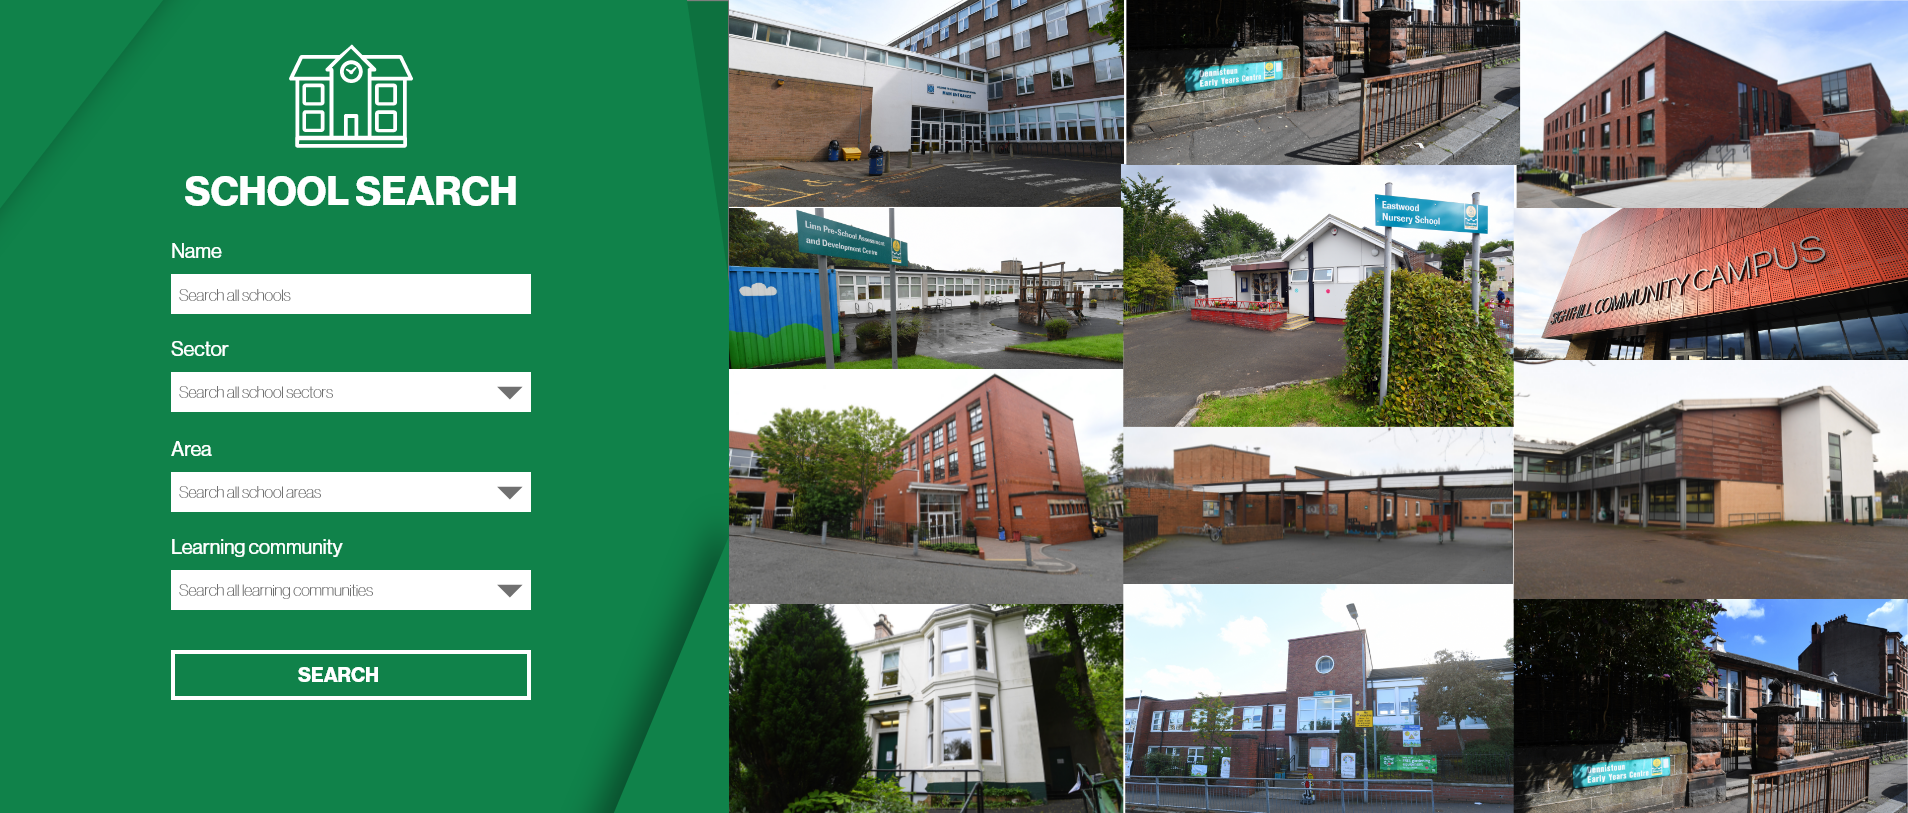
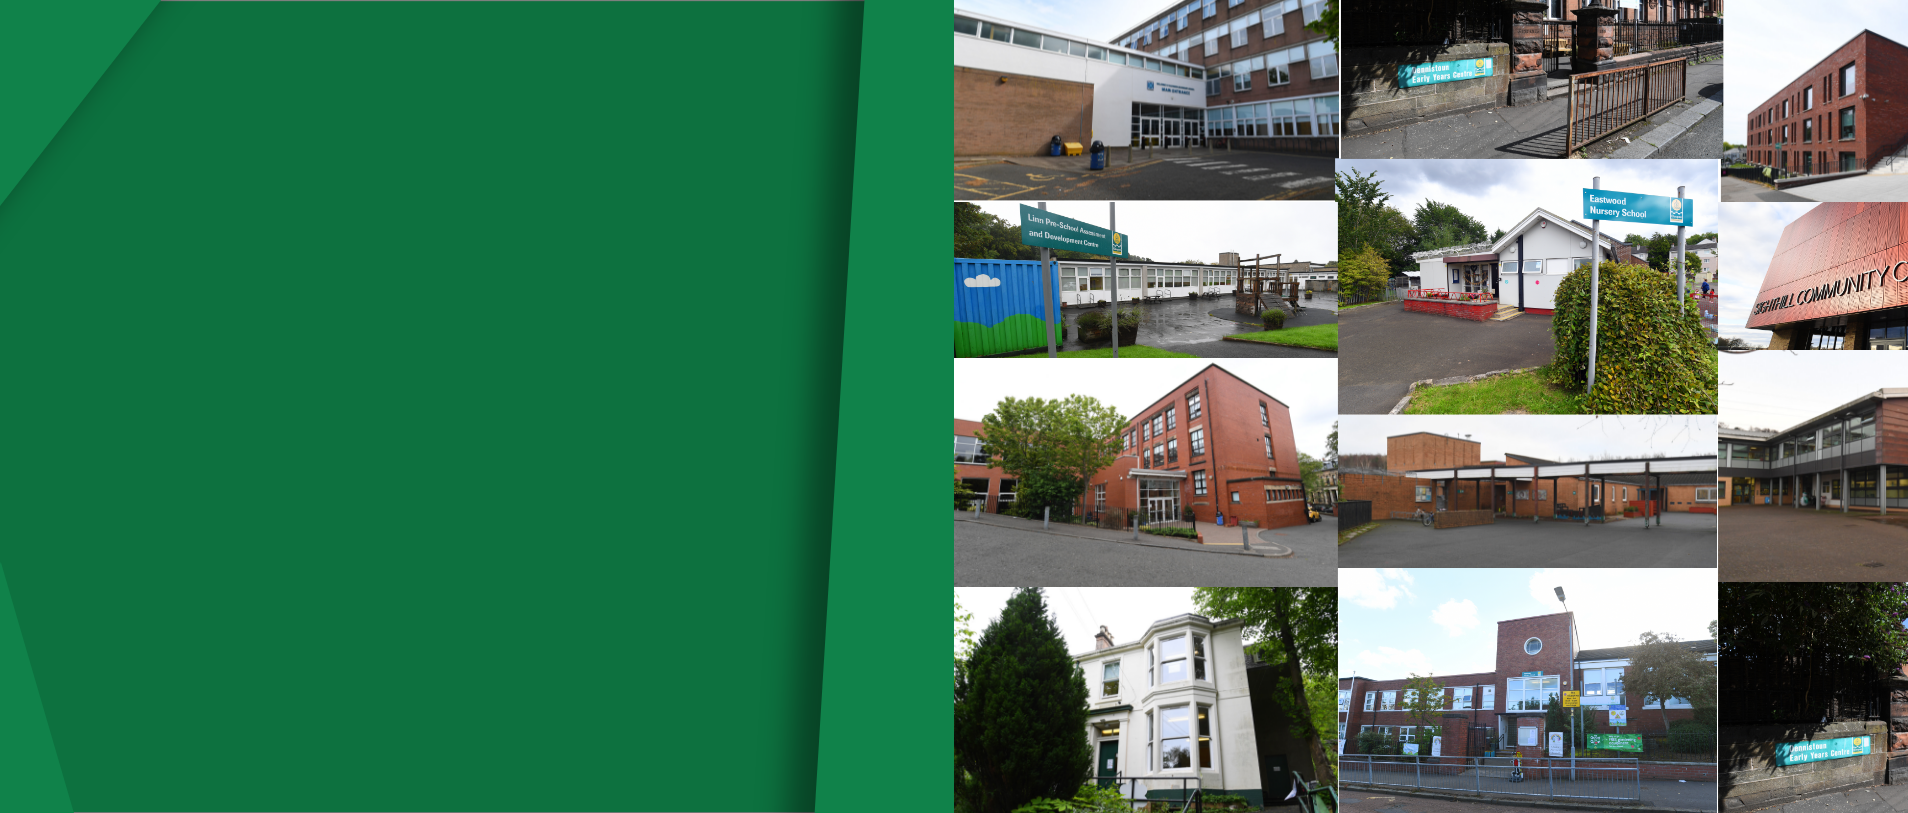
Working on School Search tile

diff --git a/index.html b/index.html
@@ -668,7 +668,7 @@
 
 
 			<!-- Square tile -->
-			<li class="fade-in-element tile green">
+			<li class="fade-in-element tile">
 				<!-- <div class="tile black"> -->
 					<a href="#">
 						<div class="tile-gradiant"></div>
@@ -774,51 +774,10 @@
 								<h1>School Search</h1>
 							</div>
 							<form action="post" id="schoolSearchForm">
-								<div class="p-1">
-									<label class="form-title">
-										By school area
-									</label>
-									<div class="form-field styled-select slate form-field">
-										<select class="js-example-basic-single select2-hidden-accessible" data-val="true" data-val-number="List of school areas" id="selectSchoolArea" name="selectSchoolArea" required="" style="width: 50%;" tabindex="-1" aria-hidden="true" data-select2-id="select2-data-selectSchoolArea">
-											<option value="" data-select2-id="select2-data-13-d990">All areas</option>
-											<option value="ce">North West</option>
-											<option value="drs">North East</option>
-											<option value="edu">South</option>
-										</select>
-									</div>
-								</div>
-								<div class="p-1">
-									<label class="form-title">
-										By school sector
-									</label>
-									<div class="form-field styled-select slate form-field">
-										<select class="js-example-basic-single select2-hidden-accessible" data-val="true" data-val-number="List of school sectors" id="selectSchoolSector" name="selectSchoolSector" required="" tabindex="-1" aria-hidden="true" data-select2-id="select2-data-selectSchoolSector">
-											<option value="" data-select2-id="select2-data-17-m2rn">All sectors</option>
-											<option value="Primary">All Primary Schools</option>
-											<option value="Secondary">All Secondary Schools</option>
-										</select>
-									</div>
-								</div>
-								<div class="p-1">
-									<label class="form-title">
-										By learning community
-									</label>
-									<div class="form-field styled-select slate form-field">
-										<select class="js-example-basic-single select2-hidden-accessible" data-val="true" data-val-number="List of learning communities" id="selectSchoolLearningCommunities" name="selectSchoolLearningCommunities" required="" tabindex="-1" aria-hidden="true" data-select2-id="select2-data-selectSchoolLearningCommunities">
-											<option value="" data-select2-id="select2-data-25-j7rb">All learning communites</option>
-											<option value="ce">Chief Executives</option>
-											<option value="drs">Development Regeneration Services</option>
-											<option value="edu">Education Services</option>
-											<option value="fin">Finance</option>
-											<option value="gchscp">Glasgow City Health and Social Care Partnership</option>
-											<option value="ns">Neighbourhood Sustainability</option>
-										</select>
-									</div>
-								</div>
 
 								<div class="p-1">
 									<label class="form-title">
-										By school
+										Name
 									</label>
 									<div class="form-field styled-select slate form-field">
 										<select class="js-example-basic-single select2-hidden-accessible" data-val="true" data-val-number="List of schools" id="selectSchool" name="selectSchool" required="" tabindex="-1" aria-hidden="true" data-select2-id="select2-data-selectSchool">
@@ -835,6 +794,50 @@
 											<option value="Battlefield Primary School">Battlefield Primary School</option>
 											<option value="Bellahouston Academy">Bellahouston Academy</option>
 											<option value="Blackfriars Primary Schoo">Blackfriars Primary School</option>
+										</select>
+									</div>
+								</div>
+
+								<div class="p-1">
+									<label class="form-title">
+										Area
+									</label>
+									<div class="form-field styled-select slate form-field">
+										<select class="js-example-basic-single select2-hidden-accessible" data-val="true" data-val-number="List of school areas" id="selectSchoolArea" name="selectSchoolArea" required="" tabindex="-1" aria-hidden="true" data-select2-id="select2-data-selectSchoolArea">
+											<option value="allAreas" data-select2-id="select2-data-13-d990">All areas</option>
+											<option value="nwArea">North West</option>
+											<option value="neArea">North East</option>
+											<option value="sArea">South</option>
+										</select>
+									</div>
+								</div>
+
+								<div class="p-1">
+									<label class="form-title">
+										Sector
+									</label>
+									<div class="form-field styled-select slate form-field">
+										<select class="js-example-basic-single select2-hidden-accessible" data-val="true" data-val-number="List of school sectors" id="selectSchoolSector" name="selectSchoolSector" required="" tabindex="-1" aria-hidden="true" data-select2-id="select2-data-selectSchoolSector">
+											<option value="allSectors" data-select2-id="select2-data-17-m2rn">All sectors</option>
+											<option value="primarySectors">All Primary Schools</option>
+											<option value="secondarySectors">All Secondary Schools</option>
+										</select>
+									</div>
+								</div>
+
+								<div class="p-1">
+									<label class="form-title">
+										Learning Community
+									</label>
+									<div class="form-field styled-select slate form-field">
+										<select class="js-example-basic-single select2-hidden-accessible" data-val="true" data-val-number="List of learning communities" id="selectSchoolLearningCommunities" name="selectSchoolLearningCommunities" required="" tabindex="-1" aria-hidden="true" data-select2-id="select2-data-selectSchoolLearningCommunities">
+											<option value="allLC" data-select2-id="select2-data-25-j7rb">All learning communites</option>
+											<option value="ce">Chief Executives</option>
+											<option value="drs">Development Regeneration Services</option>
+											<option value="edu">Education Services</option>
+											<option value="fin">Finance</option>
+											<option value="gchscp">Glasgow City Health and Social Care Partnership</option>
+											<option value="ns">Neighbourhood Sustainability</option>
 										</select>
 									</div>
 								</div>

diff --git a/css/main.css b/css/main.css
@@ -2516,6 +2516,21 @@ a.most-visited-pages-btn:hover p>span{
 
 #homepage-tiles #schoolSearchTile #tile-thumb{
 	text-align: center;
+	margin-bottom: 20px;
+}
+
+#homepage-tiles #schoolSearchTile .tile-title{
+	padding: 0;
+}
+
+#homepage-tiles #schoolSearchTile h1{
+	text-transform: uppercase;
+	font-family: 'Helvetica Neue Bold', 'Arial', "sans-serif";
+	font-weight: 700;
+	margin-bottom: 24px;
+	font-size: 2.5em;
+	text-align: center;
+	line-height: 40px;
 }
 
 #homepage-tiles #schoolSearchForm .p-1{
@@ -2523,10 +2538,33 @@ a.most-visited-pages-btn:hover p>span{
 	margin-bottom:15px;
 }
 
+#homepage-tiles #schoolSearchTile .form-title{
+	font-size: 1.25em;
+	font-family: 'Helvetica Neue Regular', 'Arial', "sans-serif";
+	font-weight: 500;
+}
+
+#homepage-tiles #schoolSearchTile .form-field{
+	margin: 8px auto 24px auto;
+}
+
 #homepage-tiles #schoolSearchForm select{
-	width:50%;
+	width:100%;
 	min-width: 260px;
-	min-height: 40px;
+}
+
+#homepage-tiles #schoolSearchForm .select2-container--default .select2-selection--single{
+	border-color: #fff;
+	border-radius: 0px;
+	height: 40px;
+}
+
+#homepage-tiles #schoolSearchForm .select2-container--default .select2-selection--single .select2-selection__rendered{
+	line-height: 40px;
+}
+
+#homepage-tiles #schoolSearchForm .select2-container--default .select2-selection--single .select2-selection__arrow{
+	height: 40px;
 }
 
 #homepage-tiles #schoolSearchForm button[type="submit"] {
@@ -2535,6 +2573,11 @@ a.most-visited-pages-btn:hover p>span{
 	background: #00854B;
 	margin-top: 16px;
 	border:2px solid white;
+	width: 100%;
+	font-size: 1.25em;
+	font-family: 'Helvetica Neue Bold', 'Arial', "sans-serif";
+	font-weight: 700;
+	text-transform: uppercase;
 }
 
 #homepage-tiles #schoolSearchForm button[type="submit"]>span {
